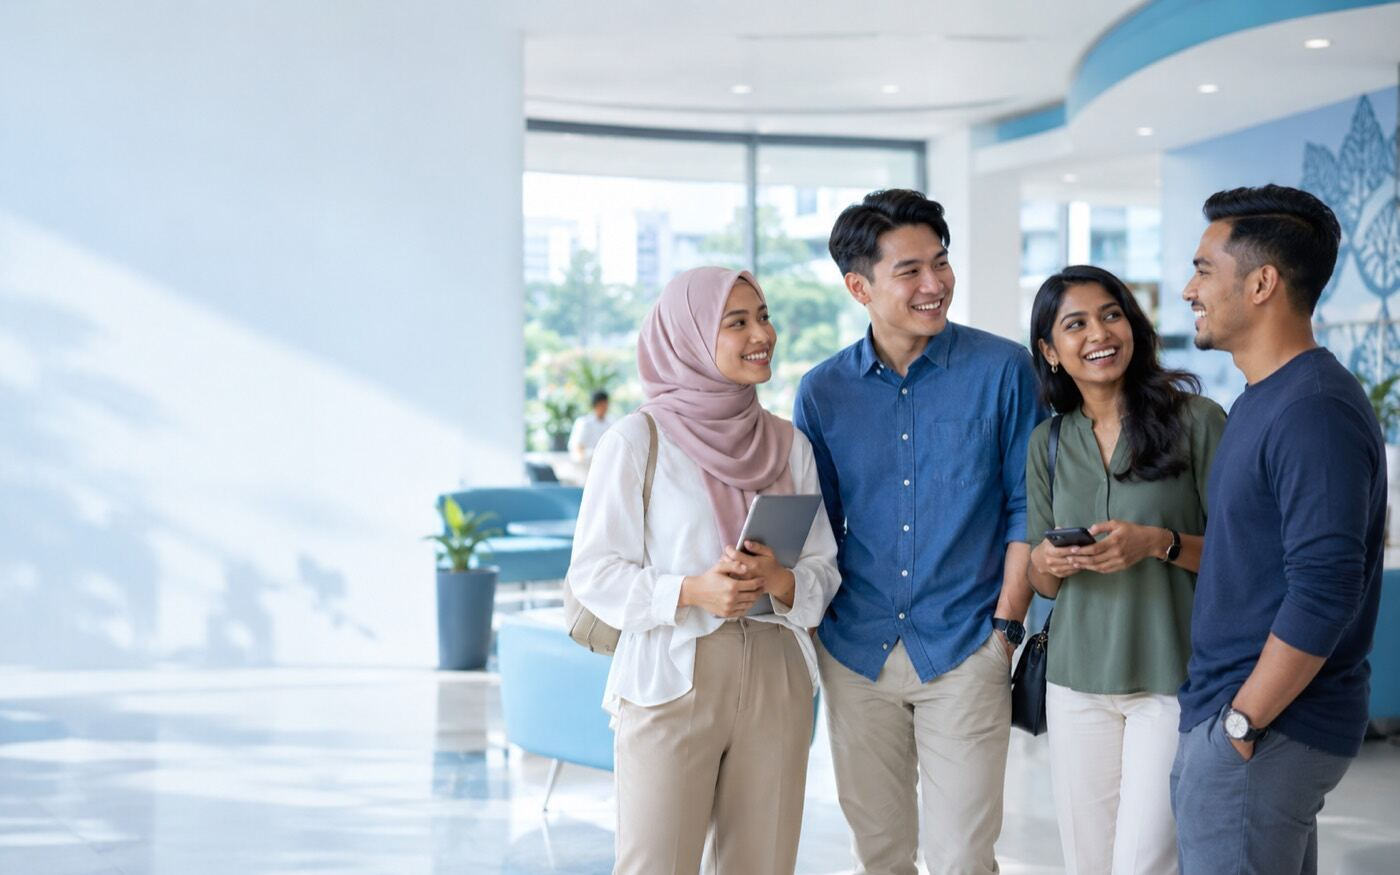
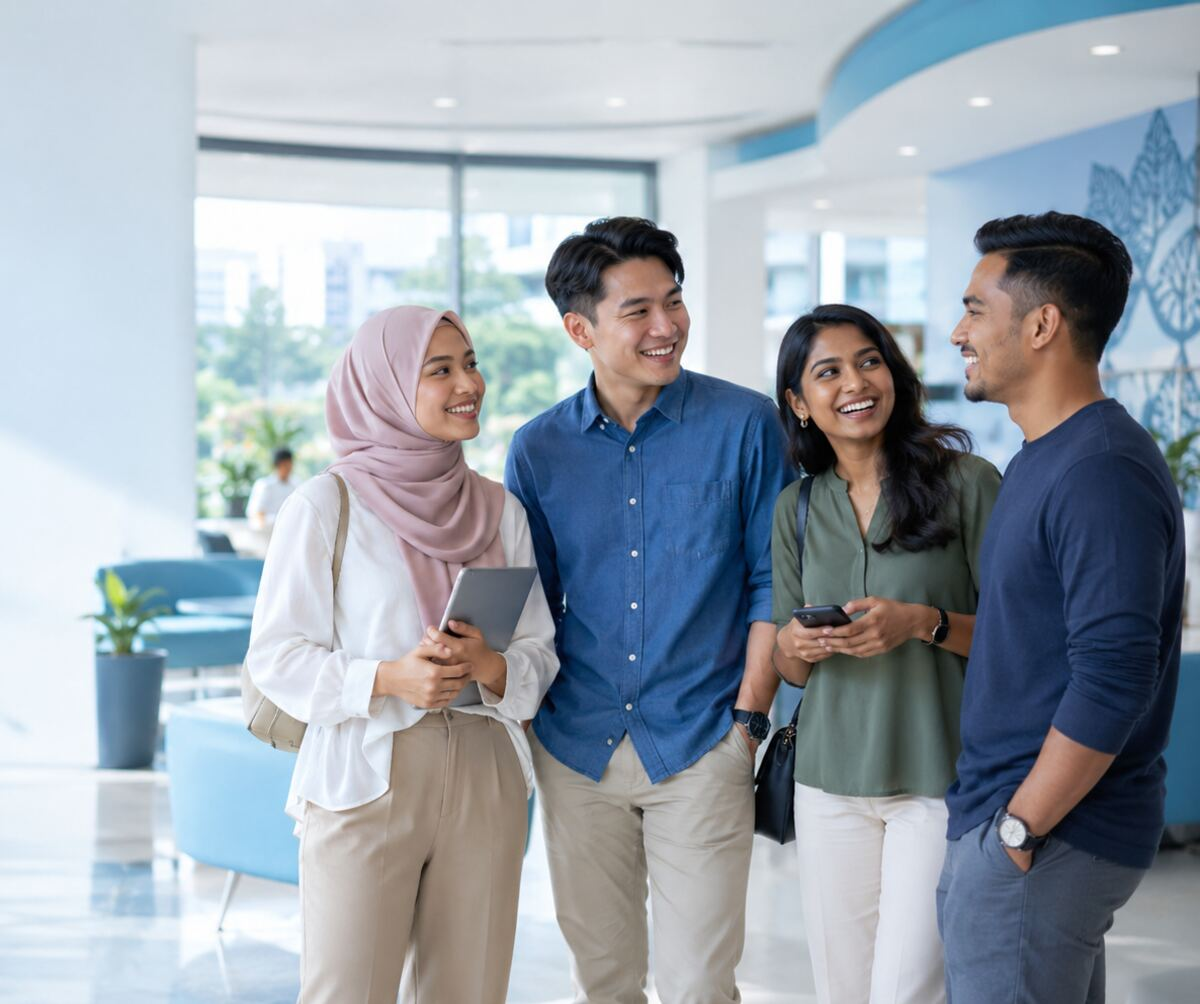
Crop the hero photo and make it fill its frame
The wide shot left a large empty wall on the left, so the subjects sat
small in a very letterboxed frame. Recrop to 1200x1004 around the
group and give .hero-art img a 4:3 box with object-fit: cover, so the
photo keeps its proportions at any column width.

diff --git a/preview.html b/preview.html
@@ -163,7 +163,8 @@ code{background:var(--tint); border:1px solid var(--border); border-radius:6px; 
   border-radius:var(--r-lg); overflow:hidden; background:linear-gradient(160deg,#EAF4FE,#F7FBFF);
   border:1px solid var(--border); padding:18px; box-shadow:var(--shadow-card);
 }
-.hero-art svg, .hero-art img{width:100%; height:auto; display:block; border-radius:var(--r)}
+.hero-art svg{width:100%; height:auto; display:block; border-radius:var(--r)}
+.hero-art img{width:100%; height:auto; aspect-ratio:4/3; object-fit:cover; object-position:60% center; display:block; border-radius:var(--r)}
 
 /* ---------- buttons ---------- */
 .btn{
@@ -441,7 +442,7 @@ code{background:var(--tint); border:1px solid var(--border); border-radius:6px; 
       </div>
     </div>
     <div class="hero-art">
-      <img src="assets/img/hero-community.jpg" alt="Four young Malaysian adults talking and smiling in a bright community centre lobby" width="1400" height="875" fetchpriority="high" decoding="async">
+      <img src="assets/img/hero-community.jpg" alt="Four young Malaysian adults talking and smiling in a bright community centre lobby" width="1200" height="1004" fetchpriority="high" decoding="async">
     </div>
   </div>
 </section>

diff --git a/assets/css/style.css b/assets/css/style.css
@@ -153,7 +153,8 @@ code{background:var(--tint); border:1px solid var(--border); border-radius:6px; 
   border-radius:var(--r-lg); overflow:hidden; background:linear-gradient(160deg,#EAF4FE,#F7FBFF);
   border:1px solid var(--border); padding:18px; box-shadow:var(--shadow-card);
 }
-.hero-art svg, .hero-art img{width:100%; height:auto; display:block; border-radius:var(--r)}
+.hero-art svg{width:100%; height:auto; display:block; border-radius:var(--r)}
+.hero-art img{width:100%; height:auto; aspect-ratio:4/3; object-fit:cover; object-position:60% center; display:block; border-radius:var(--r)}
 
 /* ---------- buttons ---------- */
 .btn{

diff --git a/index.html b/index.html
@@ -88,7 +88,7 @@
       </div>
     </div>
     <div class="hero-art">
-      <img src="assets/img/hero-community.jpg" alt="Four young Malaysian adults talking and smiling in a bright community centre lobby" width="1400" height="875" fetchpriority="high" decoding="async">
+      <img src="assets/img/hero-community.jpg" alt="Four young Malaysian adults talking and smiling in a bright community centre lobby" width="1200" height="1004" fetchpriority="high" decoding="async">
     </div>
   </div>
 </section>
